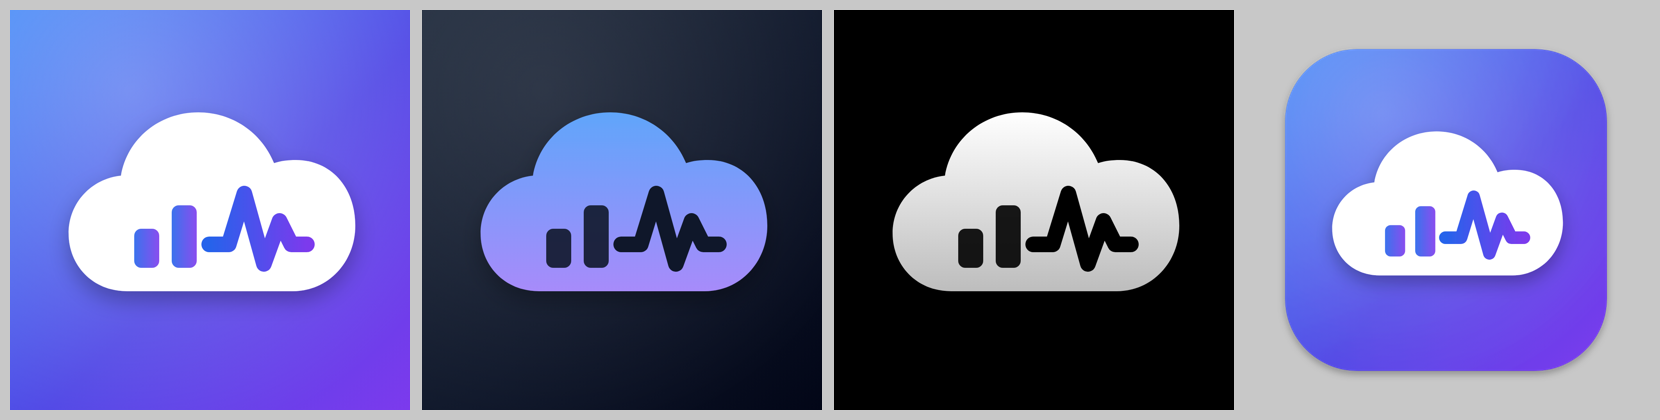
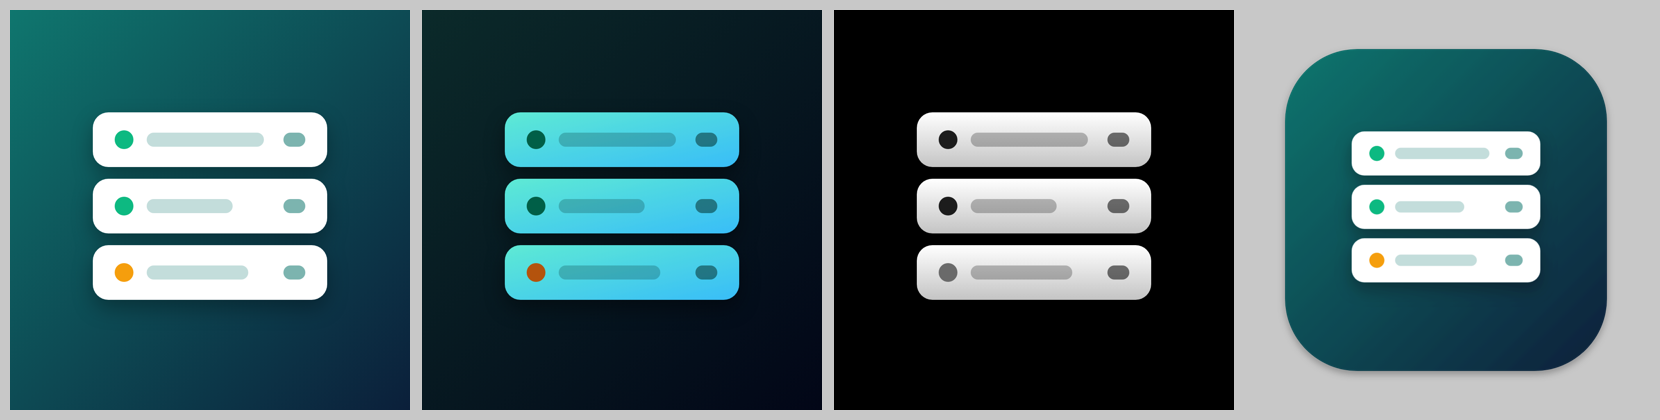
앱 아이콘 교체: 서버 랙 디자인
- iOS 1024 라이트/다크/틴티드, macOS 16~1024 전 사이즈
- docs/design/app-icon 원본 SVG·생성 스크립트 갱신

Claude-Session: https://claude.ai/code/session_01SJQAATYGvKPWkaQBRMMKqW

diff --git a/docs/design/app-icon/gen.js b/docs/design/app-icon/gen.js
@@ -1,65 +1,34 @@
+// 앱 아이콘 생성 스크립트 (서버 랙 디자인). 실행: node gen.js  → ios-*.png, mac.png, *.svg
 const { chromium } = require('playwright');
-// variant: light | dark | tinted ; mac: rounded squircle w/ padding
 function svg(variant, mac){
-  const bg = variant==='light' ? ['#3B82F6','#4F46E5','#7C3AED']
-           : variant==='dark' ? ['#1E293B','#0F172A','#020617'] : ['#000','#000','#000'];
-  const cloudFill = variant==='light' ? '#FFFFFF' : variant==='dark' ? 'url(#cg)' : 'url(#tg)';
-  const lineCol = variant==='light' ? 'url(#lg)' : variant==='dark' ? '#0F172A' : '#000';
-  const barCol = variant==='light' ? 'url(#lg)' : variant==='dark' ? '#0F172A' : '#000';
-  // 1024 viewBox; mac: content 824 rect at 100
+  const V = {
+    light:  { bg:['#0F766E','#0B1F3A'], bar:'#FFFFFF', dots:['#10B981','#10B981','#F59E0B'], ink:'#0F766E', shadow:.3 },
+    dark:   { bg:['#0B2A2A','#020617'], bar:'url(#bar)', dots:['#065F46','#065F46','#B45309'], ink:'#042F2E', shadow:.4 },
+    tinted: { bg:['#000000','#000000'], bar:'url(#tg)', dots:['#1F1F1F','#1F1F1F','#6B6B6B'], ink:'#000000', shadow:0 },
+  }[variant];
+  const rows = [262,432,602].map((y,i)=>`
+    <rect x="212" y="${y}" width="600" height="140" rx="40" fill="${V.bar}"/>
+    <circle cx="292" cy="${y+70}" r="24" fill="${V.dots[i]}"/>
+    <rect x="350" y="${y+52}" width="${[300,220,260][i]}" height="36" rx="18" fill="${V.ink}" opacity=".25"/>
+    <rect x="700" y="${y+52}" width="56" height="36" rx="18" fill="${V.ink}" opacity=".55"/>`).join('');
   const body = `
   <defs>
-    <linearGradient id="bg" x1="0" y1="0" x2="1" y2="1">
-      <stop offset="0" stop-color="${bg[0]}"/><stop offset=".55" stop-color="${bg[1]}"/><stop offset="1" stop-color="${bg[2]}"/>
-    </linearGradient>
-    <linearGradient id="lg" x1="0" y1="0" x2="1" y2="0">
-      <stop offset="0" stop-color="#2563EB"/><stop offset="1" stop-color="#7C3AED"/>
-    </linearGradient>
-    <linearGradient id="cg" x1="0" y1="0" x2="0" y2="1">
-      <stop offset="0" stop-color="#60A5FA"/><stop offset="1" stop-color="#A78BFA"/>
-    </linearGradient>
-    <linearGradient id="tg" x1="0" y1="0" x2="0" y2="1">
-      <stop offset="0" stop-color="#FFFFFF"/><stop offset="1" stop-color="#BDBDBD"/>
-    </linearGradient>
-    <radialGradient id="glow" cx=".3" cy=".2" r=".9">
-      <stop offset="0" stop-color="#fff" stop-opacity="${variant==='light'?.28:variant==='dark'?.10:0}"/><stop offset="1" stop-color="#fff" stop-opacity="0"/>
-    </radialGradient>
-    <filter id="sh" x="-20%" y="-20%" width="140%" height="160%">
-      <feDropShadow dx="0" dy="24" stdDeviation="28" flood-color="#000" flood-opacity="${variant==='tinted'?0:.28}"/>
-    </filter>
+    <linearGradient id="bg" x1="0" y1="0" x2="1" y2="1"><stop offset="0" stop-color="${V.bg[0]}"/><stop offset="1" stop-color="${V.bg[1]}"/></linearGradient>
+    <linearGradient id="bar" x1="0" y1="0" x2="1" y2="1"><stop offset="0" stop-color="#5EEAD4"/><stop offset="1" stop-color="#38BDF8"/></linearGradient>
+    <linearGradient id="tg" x1="0" y1="0" x2="0" y2="1"><stop offset="0" stop-color="#FFFFFF"/><stop offset="1" stop-color="#C4C4C4"/></linearGradient>
+    <filter id="sh" x="-20%" y="-20%" width="140%" height="160%"><feDropShadow dx="0" dy="22" stdDeviation="26" flood-color="#000" flood-opacity="${V.shadow}"/></filter>
   </defs>
   <rect width="1024" height="1024" fill="url(#bg)"/>
-  <rect width="1024" height="1024" fill="url(#glow)"/>
-  <!-- cloud -->
-  <g filter="url(#sh)">
-    <path fill="${cloudFill}" d="
-      M 300 720
-      C 210 720 150 652 150 572
-      C 150 494 208 432 284 424
-      C 300 330 382 262 482 262
-      C 570 262 644 314 676 392
-      C 694 386 712 384 732 384
-      C 820 384 884 452 884 552
-      C 884 646 814 720 724 720 Z"/>
-  </g>
-  <!-- bars -->
-  <rect x="318" y="560" width="64" height="100" rx="18" fill="${barCol}" opacity=".9"/>
-  <rect x="414" y="500" width="64" height="160" rx="18" fill="${barCol}" opacity=".9"/>
-  <!-- pulse line -->
-  <polyline points="510,600 560,600 600,470 650,650 690,540 720,600 760,600"
-    fill="none" stroke="${lineCol}" stroke-width="40" stroke-linecap="round" stroke-linejoin="round"/>
-  `;
+  <g filter="url(#sh)">${rows}</g>`;
   if(!mac) return `<svg xmlns="http://www.w3.org/2000/svg" width="1024" height="1024" viewBox="0 0 1024 1024">${body}</svg>`;
   return `<svg xmlns="http://www.w3.org/2000/svg" width="1024" height="1024" viewBox="0 0 1024 1024">
-    <defs><clipPath id="sq"><rect x="0" y="0" width="1024" height="1024" rx="230"/></clipPath>
+    <defs><clipPath id="sq"><rect width="1024" height="1024" rx="230"/></clipPath>
     <filter id="ms" x="-10%" y="-10%" width="120%" height="130%"><feDropShadow dx="0" dy="10" stdDeviation="12" flood-color="#000" flood-opacity=".3"/></filter></defs>
     <g transform="translate(100,100) scale(0.8047)" filter="url(#ms)"><g clip-path="url(#sq)">${body}</g></g></svg>`;
 }
 (async()=>{
-  const b = await chromium.launch(); const p = await b.newPage({viewport:{width:1024,height:1024}});
-  const jobs = [['ios-light','light',false],['ios-dark','dark',false],['ios-tinted','tinted',false],['mac','light',true]];
-  const fs=require('fs');
-  for (const [n,v,m] of jobs){
+  const fs=require('fs'); const b = await chromium.launch(); const p = await b.newPage({viewport:{width:1024,height:1024}});
+  for (const [n,v,m] of [['ios-light','light',false],['ios-dark','dark',false],['ios-tinted','tinted',false],['mac','light',true]]){
     const s=svg(v,m); fs.writeFileSync(n+'.svg',s);
     await p.setContent(`<html><body style="margin:0;background:transparent">${s}</body></html>`);
     await p.locator('svg').screenshot({path:n+'.png', omitBackground:m});
